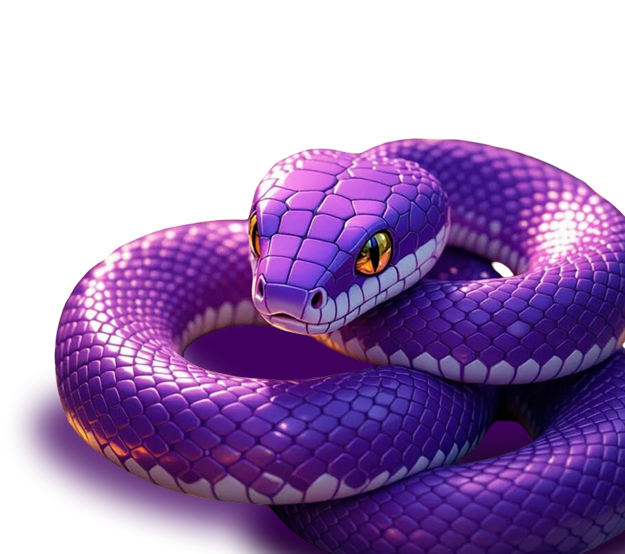
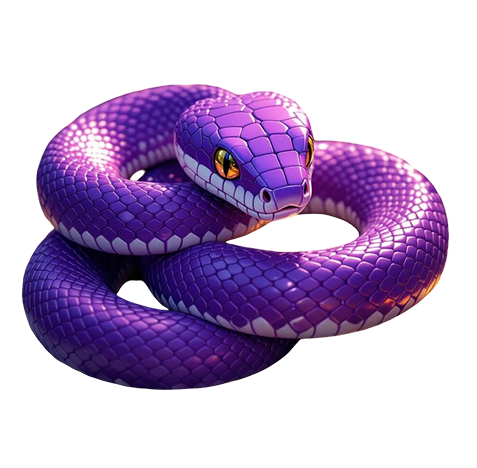
page NotFound add

diff --git a/src/pages/NotFound/NotFound.module.scss b/src/pages/NotFound/NotFound.module.scss
@@ -1,0 +1,163 @@
+@use 'vars' as *;
+@use 'mixins' as *;
+
+.page {
+  position: relative;
+  overflow: hidden;
+  flex: 1;
+  display: flex;
+  flex-direction: column;
+background: linear-gradient(122deg, #dc8400 0%, #560080 56%, #220032 100%);  @include max-media(1024) {
+    background: linear-gradient(160deg, #7b21bb 0%, #3f0063 100%);
+  }
+}
+
+.container {
+  position: relative;
+  z-index: 1;
+  flex: 1;
+  display: flex;
+  flex-direction: column;
+  width: 100%;
+  max-width: #{$maxWidthContainer}px;
+  margin: 0 auto;
+  padding: 0 40px;
+
+  @include max-media(1024) {
+    padding: 0 20px;
+     padding-bottom: 70vw; 
+  }
+}
+
+.header {
+   display: flex;
+  justify-content: space-between;
+  align-items: center;
+  padding-top: 32px;
+
+  @include max-media(1024) {
+    padding-top: 20px;
+  }
+}
+
+.header .logoLink {
+  padding: 0;
+  line-height: 0;
+}
+.header .menu {
+  padding: 0;
+    display: none;
+
+  @include max-media(1024) {
+    display: block;
+  }
+}
+.logo {
+  width: 36px;
+  height: auto;
+  color: $c-white;
+}
+
+.main {
+  flex: 1;
+  display: flex;
+  flex-direction: column;
+  align-items: center;
+  gap: clamp(40px, 7vw, 100px);
+  margin-top: clamp(60px, 10vh, 140px);
+
+  @include max-media(1024) {
+    gap: 36px;
+
+  }
+}
+
+.digits {
+  display: flex;
+  font-family: $font-family-main;
+  font-weight: 700;
+  font-size: 378px;
+  line-height: 0.9;
+  user-select: none;
+  color: $c-white;
+
+  @include max-media(1024) {
+    flex-direction: column;
+    align-items: center;
+    font-size: 150px;
+    line-height: 0.85;
+    font-size: 144px;
+  }
+}
+
+.main .button {
+  --bw: 2px;
+  --depth: 8px;
+
+  position: relative;
+  padding: 20px 36px;
+
+  font-family: $font-family-main;
+  font-weight: 700;
+  font-size: 23px;
+  letter-spacing: 4.6px;
+  text-transform: uppercase;
+  text-decoration: none;
+
+  color: $c-text-third;
+  background: $c-btn-main;
+  border: var(--bw) solid $c-bd-second;
+
+  &:hover {
+    color: $c-text-third;
+  }
+
+  &::before,
+  &::after {
+    content: '';
+    position: absolute;
+    box-sizing: border-box;
+    background: inherit;
+    border: var(--bw) solid $c-bd-second;
+    pointer-events: none;
+  }
+
+  &::before {
+    left: calc(var(--bw) * -1);
+    right: calc(var(--bw) * -1);
+    bottom: 100%;
+    height: var(--depth);
+    transform-origin: bottom left;
+    transform: skewX(-45deg);
+  }
+
+  &::after {
+    left: 100%;
+    top: calc(var(--bw) * -1);
+    width: var(--depth);
+    height: calc(100% + var(--bw) * 2);
+    transform-origin: top left;
+    transform: skewY(-45deg);
+  }
+
+  @include max-media(1024) {
+    padding: 14px 24px;
+    font-size: 16px;
+    letter-spacing: 3px;
+  }
+}
+
+.snake {
+  position: absolute;
+  left: 0;
+  bottom: -8vw;
+  pointer-events: none;
+
+  @include max-media(1024) {
+    left: auto;
+    right: -10vw;
+    bottom: -10vh;
+    transform: scaleX(-1);
+    width: 120vw;
+  }
+}

diff --git a/src/pages/NotFound/NotFound.tsx b/src/pages/NotFound/NotFound.tsx
@@ -1,5 +1,38 @@
+import { Link } from '@/shared/ui/index';
+import Logo from '@public/icons/mask.svg?react';
+import snake from '@public/img/snake-hero.png';
+
+import styles from './NotFound.module.scss';
+
 function NotFound() {
-  return <h1>404</h1>;
+  return (
+    <div className={styles.page}>
+      <div className={styles.container}>
+        <header className={styles.header}>
+          <Link href="/" className={styles.logoLink} aria-label="Home">
+            <Logo className={styles.logo} />
+          </Link>
+            <Link href="/menu" className={styles.menu}>
+              Menu
+            </Link>
+        </header>
+
+        <main className={styles.main}>
+          <div className={styles.digits}>
+            <div>4</div>
+            <div>0</div>
+            <div>4</div>
+          </div>
+
+          <Link href="/" className={styles.button}>
+            Take me back
+          </Link>
+        </main>
+      </div>
+
+      <img className={styles.snake} src={snake} alt="" />
+    </div>
+  );
 }
 
 export { NotFound };

diff --git a/src/pages/NotFound/NotFound.module.scss.d.ts b/src/pages/NotFound/NotFound.module.scss.d.ts
@@ -1,0 +1,13 @@
+declare const classNames: {
+  readonly page: "page";
+  readonly container: "container";
+  readonly header: "header";
+  readonly menu: "menu";
+  readonly main: "main";
+  readonly digits: "digits";
+  readonly button: "button";
+  readonly snake: "snake";
+  readonly logoLink: "logoLink";
+  readonly logo: "logo";
+};
+export default classNames;

diff --git a/src/app/App.scss b/src/app/App.scss
@@ -52,11 +52,11 @@
 }
 
 #root {
-  width: 1126px;
-  max-width: 100%;
-  margin: 0 auto;
-  text-align: center;
-  border-inline: 1px solid var(--border);
+  // width: 1126px;
+  // max-width: 100%;
+  // margin: 0 auto;
+  // border-inline: 1px solid var(--border);
+  // text-align: center;
   min-height: 100svh;
   display: flex;
   flex-direction: column;
